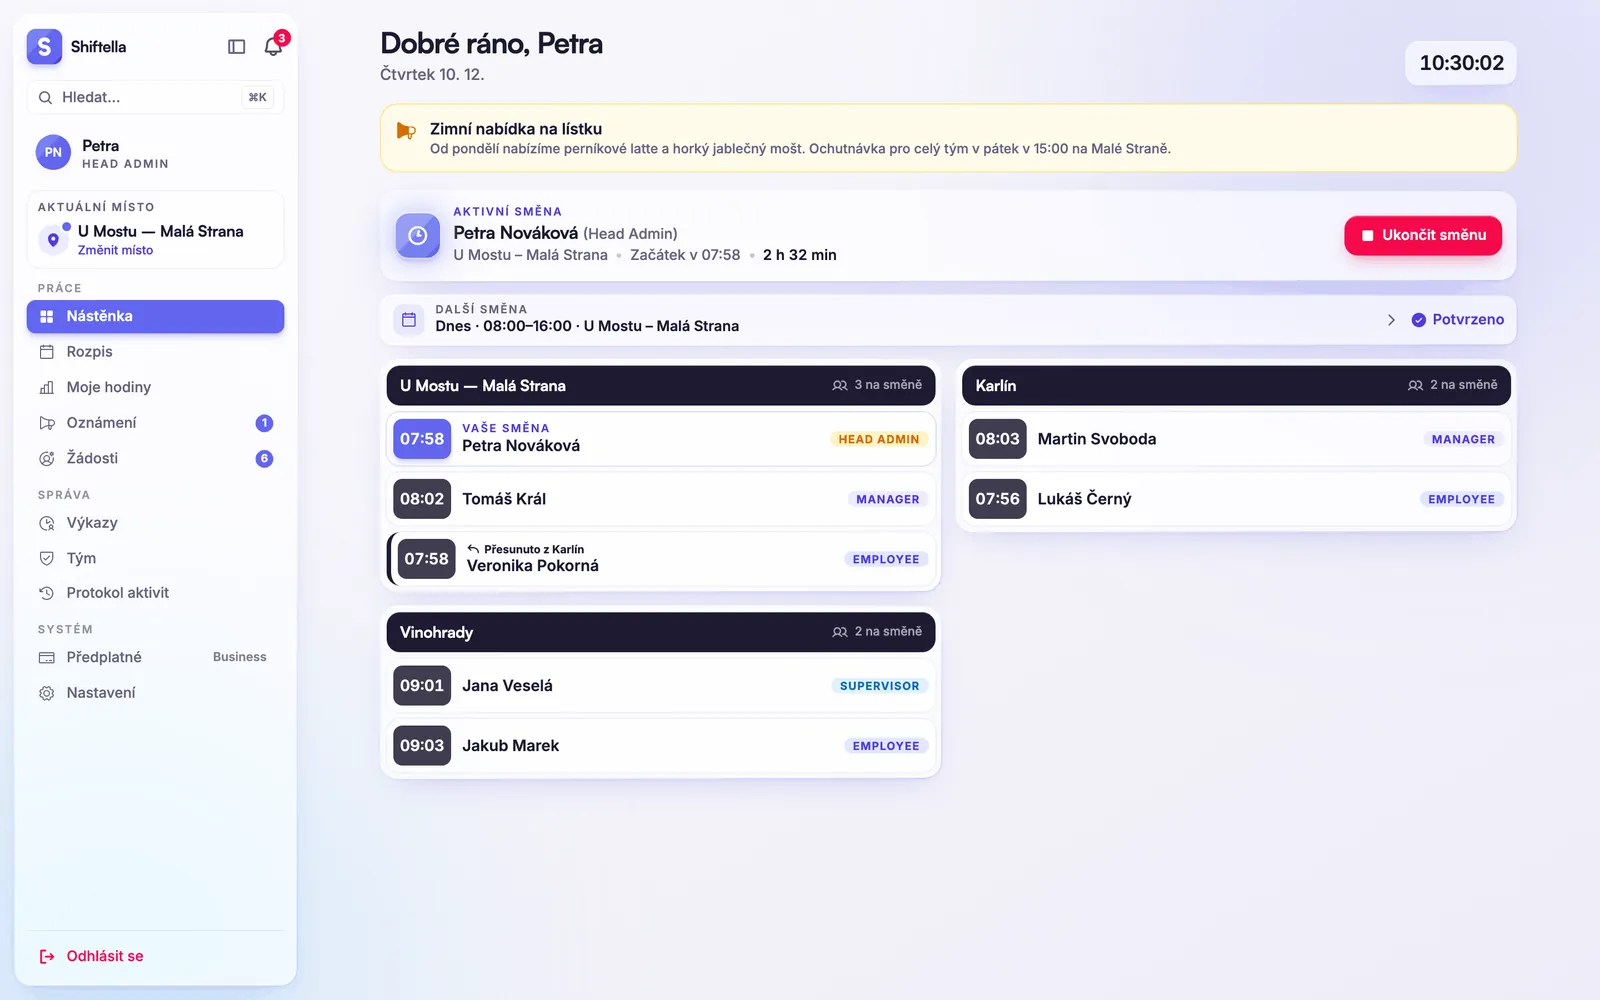
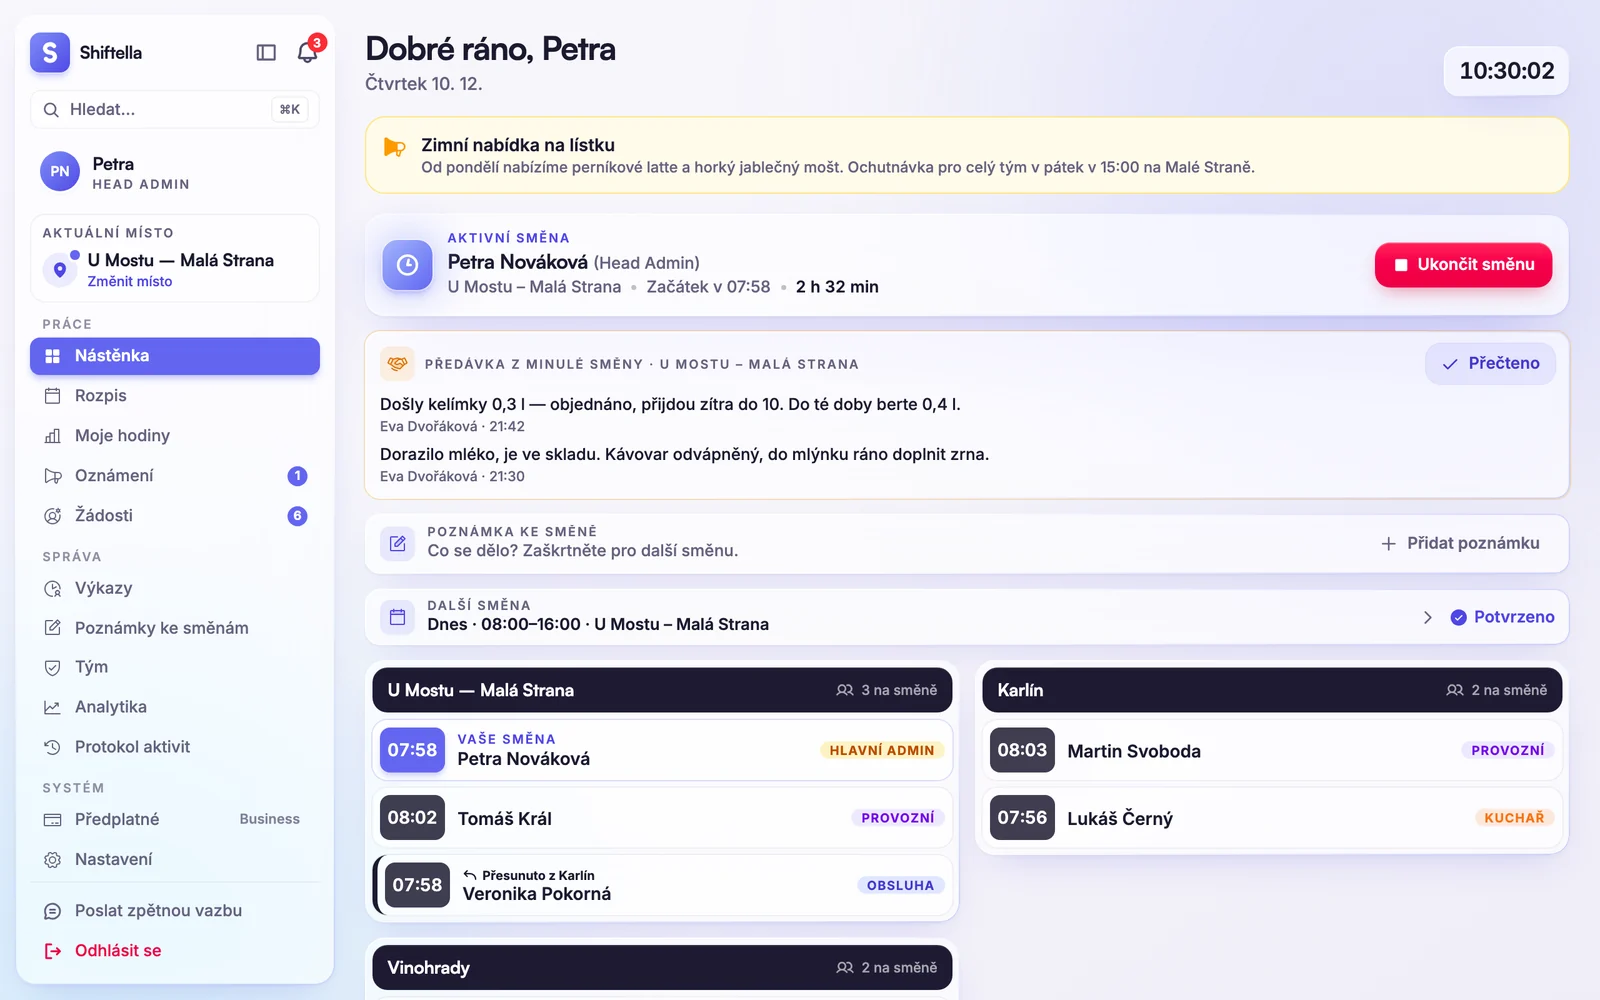
feat(landing): new link-preview image and dashboard screenshot
The OG image (link previews in Telegram, WhatsApp, Facebook…) said
'30 dní zdarma', showed English role names and a phone without a frame.
Now: Czech roles, the iPhone in its real frame, 'Zdarma během bety'.
The landing dashboard screenshot is refreshed the same way (current
sidebar, handover card, Czech roles). Reproducible with tools/og/.

diff --git a/tools/og/og.html b/tools/og/og.html
@@ -1,0 +1,33 @@
+<!doctype html>
+<html lang="cs"><head><meta charset="utf-8">
+<link rel="stylesheet" href="https://fonts.googleapis.com/css2?family=Inter:wght@400..900&display=swap">
+<link rel="stylesheet" href="https://api.fontshare.com/v2/css?f[]=satoshi@500,700,900&display=swap">
+<style>
+  html,body{margin:0}
+  body{width:1200px;height:630px;overflow:hidden;position:relative;font-family:Inter,system-ui,sans-serif;
+    background:radial-gradient(900px 520px at 85% 10%, #c9c3f3 0%, rgba(201,195,243,0) 70%),
+               radial-gradient(700px 500px at 0% 100%, #ece9fb 0%, rgba(236,233,251,0) 70%), #f6f5fc;}
+  .brand{position:absolute;left:64px;top:58px;display:flex;align-items:center;gap:14px}
+  .tile{width:48px;height:48px;border-radius:13px;background:linear-gradient(135deg,#8b7cf6,#5b4bdc);
+    box-shadow:0 8px 20px rgba(91,75,220,.35);display:flex;align-items:center;justify-content:center}
+  .tile svg{width:100%;height:100%;color:#fff}
+  .name{font-family:Satoshi,Inter,sans-serif;font-weight:900;font-size:28px;letter-spacing:-.02em;color:#16142a}
+  h1{position:absolute;left:64px;top:156px;width:470px;margin:0;font-family:Satoshi,Inter,sans-serif;font-weight:900;
+    font-size:48px;line-height:1.1;letter-spacing:-.025em;color:#16142a}
+  h1 em{font-style:normal;color:#5b4bdc}
+  .sub{position:absolute;left:64px;top:372px;width:440px;margin:0;font-size:21px;line-height:1.45;color:#5f5c78}
+  .foot{position:absolute;left:64px;bottom:52px;display:flex;align-items:center;gap:14px}
+  .url{font-family:Satoshi,Inter,sans-serif;font-weight:900;font-size:22px;color:#5b4bdc}
+  .chip{padding:7px 14px;border-radius:999px;background:rgba(91,75,220,.12);color:#4536c4;font-weight:700;font-size:16px}
+  .desk{position:absolute;left:660px;top:116px;width:760px;border-radius:18px;padding:8px;
+    background:rgba(255,255,255,.65);border:1px solid rgba(255,255,255,.9);box-shadow:0 30px 70px rgba(40,30,110,.18)}
+  .desk img{display:block;width:100%;border-radius:12px}
+  .phone{position:absolute;left:548px;top:196px;height:412px;filter:drop-shadow(0 26px 34px rgba(20,14,60,.38))}
+</style></head><body>
+  <div class="brand"><div class="tile"><svg viewBox="0 0 1024 1024" fill="none"><path d="M615 345A126 106 0 1 0 512 512A126 106 0 1 1 409 679" stroke="currentColor" stroke-width="108" stroke-linecap="round" stroke-linejoin="round"/></svg></div><div class="name">Shiftella</div></div>
+  <h1>Rozpis směn, docházka a výkazy <em>pro malé týmy</em></h1>
+  <p class="sub">Bez Excelu a skupinových chatů. Pro kavárny, obchody i ordinace.</p>
+  <div class="foot"><span class="url">shiftella.app</span><span class="chip">Zdarma během bety</span></div>
+  <div class="desk"><img src="../../public/landing/dashboard-1600.webp"></div>
+  <img class="phone" src="../../public/landing/mobile-home-framed-720.webp">
+</body></html>

diff --git a/tools/og/capture_dashboard.py b/tools/og/capture_dashboard.py
@@ -1,0 +1,47 @@
+"""Fresh Czech dashboard screenshot for the landing page + OG image.
+
+Runs against the screenshot harness (corepack yarn vite --config tools/screenshots/vite.config.ts,
+port 5199 by default): fake Supabase, pinned clock 10:30, demo café, owner Petra.
+
+    python3 tools/og/capture_dashboard.py [--base http://127.0.0.1:5199]
+Writes public/landing/dashboard-{960,1600}.webp and tools/og/dashboard@2x.png.
+"""
+import argparse
+from pathlib import Path
+
+from PIL import Image
+from playwright.sync_api import sync_playwright
+
+ROOT = Path(__file__).resolve().parents[2]
+PREFS = """try {
+  localStorage.setItem('language','cs'); localStorage.setItem('time-format','24h');
+  localStorage.setItem('theme','light'); localStorage.setItem('combo-key','lilac-indigo');
+  localStorage.removeItem('demo-auth');
+  localStorage.setItem('notifications_seen_at:00000000-0000-4000-8001-000000000001', new Date().toISOString());
+} catch (e) {}"""
+
+
+def main() -> None:
+    ap = argparse.ArgumentParser()
+    ap.add_argument("--base", default="http://127.0.0.1:5199")
+    base = ap.parse_args().base
+    with sync_playwright() as p:
+        b = p.chromium.launch()
+        ctx = b.new_context(viewport={"width": 1280, "height": 800}, device_scale_factor=2, locale="cs-CZ",
+                            timezone_id="Europe/Prague", color_scheme="light", service_workers="block")
+        ctx.add_init_script(PREFS)
+        page = ctx.new_page()
+        page.goto(base + "/", wait_until="networkidle")
+        page.wait_for_function("() => !document.querySelector('span.animate-pulse, p.animate-pulse')", timeout=10000)
+        page.wait_for_timeout(1500)
+        out = ROOT / "tools/og/dashboard@2x.png"
+        page.screenshot(path=str(out))
+        b.close()
+    im = Image.open(out).convert("RGB")
+    for w in (960, 1600):
+        im.resize((w, w * 10 // 16), Image.LANCZOS).save(ROOT / f"public/landing/dashboard-{w}.webp", "WEBP", quality=86, method=6)
+    print("ok", im.size)
+
+
+if __name__ == "__main__":
+    main()

diff --git a/tools/og/render_og.py b/tools/og/render_og.py
@@ -1,0 +1,19 @@
+"""Render public/og-image.png (1200x630, the link preview) from tools/og/og.html.
+Refresh the dashboard first: python3 tools/og/capture_dashboard.py
+
+    python3 tools/og/render_og.py
+"""
+from pathlib import Path
+
+from playwright.sync_api import sync_playwright
+
+ROOT = Path(__file__).resolve().parents[2]
+with sync_playwright() as p:
+    b = p.chromium.launch()
+    page = b.new_page(viewport={"width": 1200, "height": 630}, device_scale_factor=1)
+    page.goto((ROOT / "tools/og/og.html").as_uri(), wait_until="networkidle")
+    page.evaluate("document.fonts.ready")
+    page.wait_for_timeout(500)
+    page.screenshot(path=str(ROOT / "public/og-image.png"))
+    b.close()
+print("wrote public/og-image.png")
